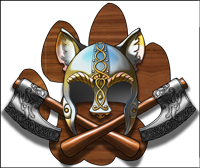
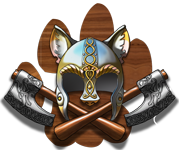
Updated graphics

diff --git a/styles/anthrocon-2015.css b/styles/anthrocon-2015.css
@@ -248,7 +248,7 @@ table {
 	/* Anthrocon */
 	width: 190px;
 	border: 1px solid black;
-	background-image: url('images/anthrocon-2015/tile-block-title.jpg');
+	background-image: url('images/anthrocon-2015/tile-block-background.jpg');
 }
 
 /* Anthrocon */
